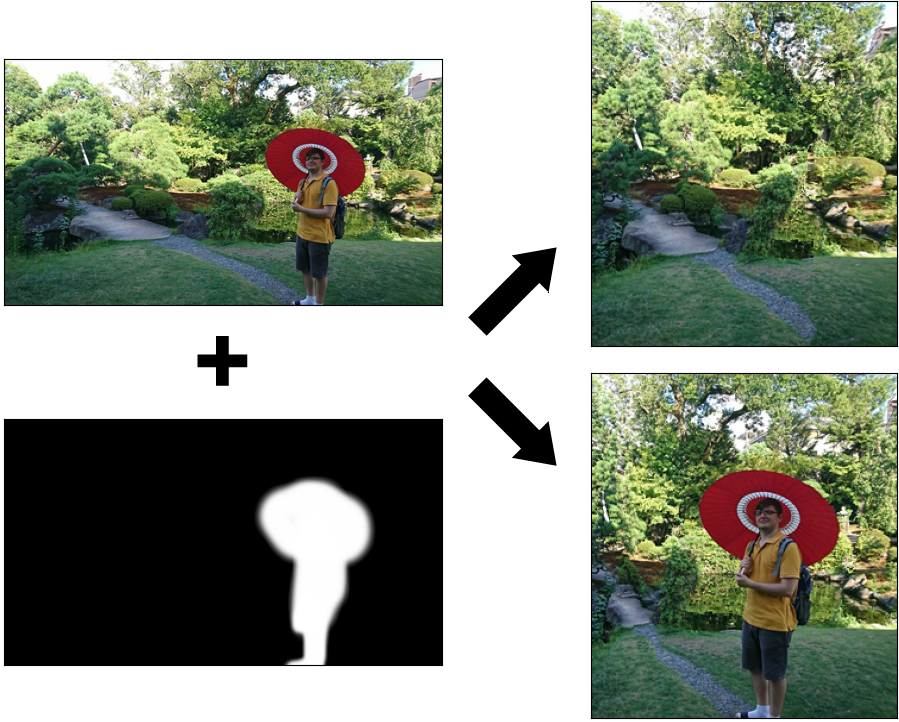
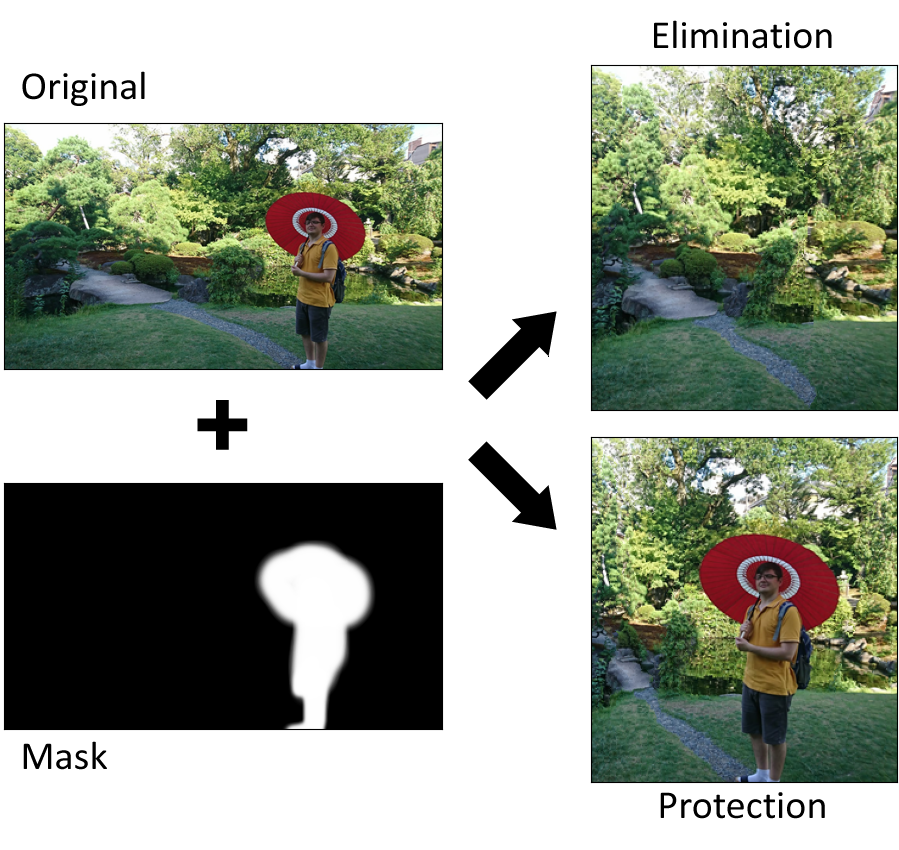
Fixes, new image, new readme

diff --git a/code/exampleWindow.py b/code/exampleWindow.py
@@ -1,0 +1,64 @@
+################################################################################################
+#
+# COMPUTER VISION
+# 2018/2019
+# SEAM CARVING
+# FEDERICO GARCIA GARCIA
+#
+################################################################################################
+
+from seamCarving import *
+
+# Global variables
+src = None
+dst = None
+seams = None
+seams_pixeles = None
+current = 0
+title_window = ''
+
+# Action when trackbar slider is changed
+def on_trackbar(val):
+    global dst
+    global seams
+    global seams_pixeles
+    global current
+
+    # Delta
+    iterations = dst.shape[1] - val
+
+    if(val > 0):
+        # Moved to the left
+        if(iterations > 0):
+            # Run algorithm with the delta difference
+            for i in range(iterations):
+                dst = RemoveSeamImageRGB (dst, seams[current])
+                current = current+1
+        # Moved to the right
+        else:
+            # Run algorithm with the delta difference
+            for i in range(-iterations):
+                current = current-1
+                dst = AddSeamImageRGB (dst, seams[current], seams_pixeles[current])
+
+    # Draw borders
+    border=cv2.copyMakeBorder(dst, top=0, bottom=0, left=int((src.shape[1]-dst.shape[1])/2), right=int(math.ceil((src.shape[1]-dst.shape[1])/2)), borderType=cv2.BORDER_CONSTANT, value=0)
+    cv2.imshow(title_window, border)
+    pass
+
+print("-- Finding seams --")
+
+# Variables globales
+src = cv2.imread("example images/tower.png", 3)
+dst = src.copy()
+seams, seams_pixeles = SM_RealTime(src, True) # Obtener los seams
+current = 0
+title_window = 'Seam Carving - Federico Garcia Garcia'
+
+# Crear trackbar y ventana
+alpha_slider_max = src.shape[1]
+cv2.namedWindow(title_window)
+trackbar_name = 'Width (px)'
+cv2.createTrackbar(trackbar_name, title_window, src.shape[1], alpha_slider_max, on_trackbar)
+on_trackbar(src.shape[1])
+cv2.waitKey()

diff --git a/code/exampleNewEnergy.py b/code/exampleNewEnergy.py
@@ -17,9 +17,9 @@ nx = int(float(img.shape[1])*0.5)
 ny = int(float(img.shape[0])*0.5)
 
 print("-- 1/4: Standard energy function X reduction --")
-img_sc = SM_redu(img,    nx, False, False)
+img_sc = SM_redu(img,    nx, True, False)
 print("-- 2/4: Standard energy function Y reduction --")
-img_sc = SM_redu(img_sc, ny, False, True)
+img_sc = SM_redu(img_sc, ny, True, True)
 
 print("-- 3/4: New energy function X reduction --")
 img_sc_alt = SM_redu(img,        nx, False, False)
@@ -27,4 +27,4 @@ print("-- 4/4: New energy function Y reduction --")
 img_sc_alt = SM_redu(img_sc_alt, ny, False, True)
 
 # Show
-show([img, img_sc, img_sc_alt], ["Original", "Standard energy" "New energy"], 1, 3)
+show([img, img_sc, img_sc_alt], ["Original", "Standard energy", "New energy"], 1, 3)

diff --git a/code/seamCarving.py b/code/seamCarving.py
@@ -104,7 +104,7 @@ def show(vim, titles, rows, cols):
     pass
 
 # Standard energy function.
-# Absolut sum of the partial derivatives of each color channel.
+# Absolute sum of the partial derivatives of each color channel.
 #
 #   src: source image
 #

diff --git a/readme.md b/readme.md
@@ -1,0 +1,54 @@
+# Seam Carving Multiscale Energy Function
+The famous Seam Carving algorithm implemented in Python and OpenCV. A new energy function is proposed, consisting on the sum of a standard energy function on multiple lower scales, to prevent larger object deformation. The standard energy function is the absolute sum of the partial derivatives of each color channel.
+
+## Features
+
+* Reduction
+
+![Reduction](https://github.com/FedericoGarciaGarcia/SeamCarvingMultiscaleEnergyFunction/blob/master/images/reduce.png)
+
+* Enlargement
+
+![Enlargement](https://github.com/FedericoGarciaGarcia/SeamCarvingMultiscaleEnergyFunction/blob/master/images/enlargement.png)
+
+* Mask protection and elimination
+
+![Mask](https://github.com/FedericoGarciaGarcia/SeamCarvingMultiscaleEnergyFunction/blob/master/images/mask.png)
+
+* Interactive window
+
+## How to use
+
+### Modules
+
+First, install OpenCV:
+
+```
+pip install opencv-python
+```
+
+If you also want contrib modules, run this one instead (not necessary):
+
+```
+pip install opencv-contrib-python
+```
+
+### Examples
+
+Four example files are provided, with a folder with images. They can be run directly without arguments:
+
+```
+python code\example.py
+```
+
+* **exampleIncrease.py**: 
+
+## Authors
+
+* **Federico Garcia Garcia**
+
+## Acknowledgments
+
+Textures and materials taken from:
+* [3D Textures](https://3dtextures.me/)
+* [Texture Haven](https://texturehaven.com/textures/)
